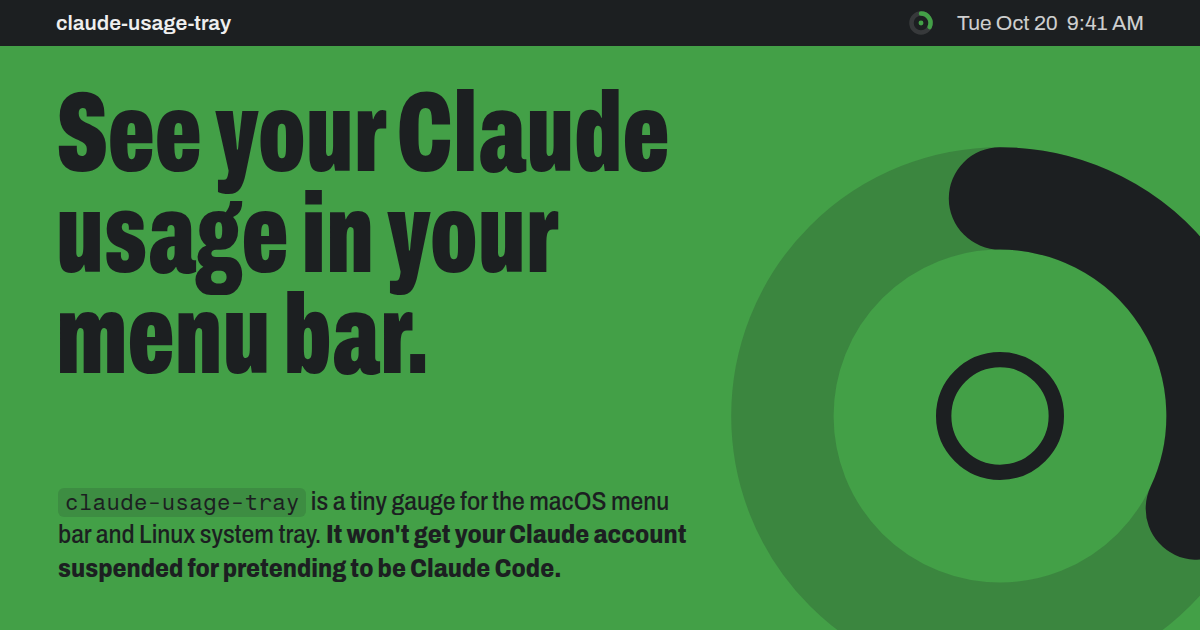
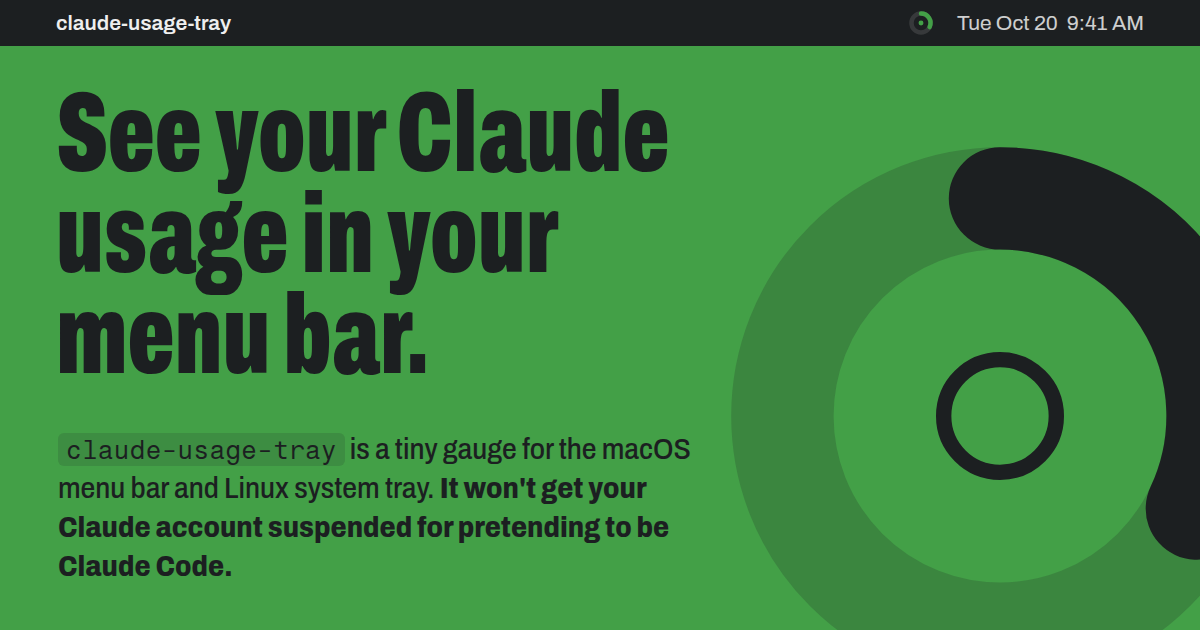
Make the social card tagline larger

Changed region(s): [[0.0308, 0.6937, 0.5858, 0.9349]]

diff --git a/assets/social-card.html b/assets/social-card.html
@@ -51,7 +51,7 @@
     bottom: 44px;
     width: 640px;
     margin: 0;
-    font-size: 26px;
+    font-size: 30px;
     line-height: 1.3;
     font-weight: 500;
     font-variation-settings: "wdth" 85;
